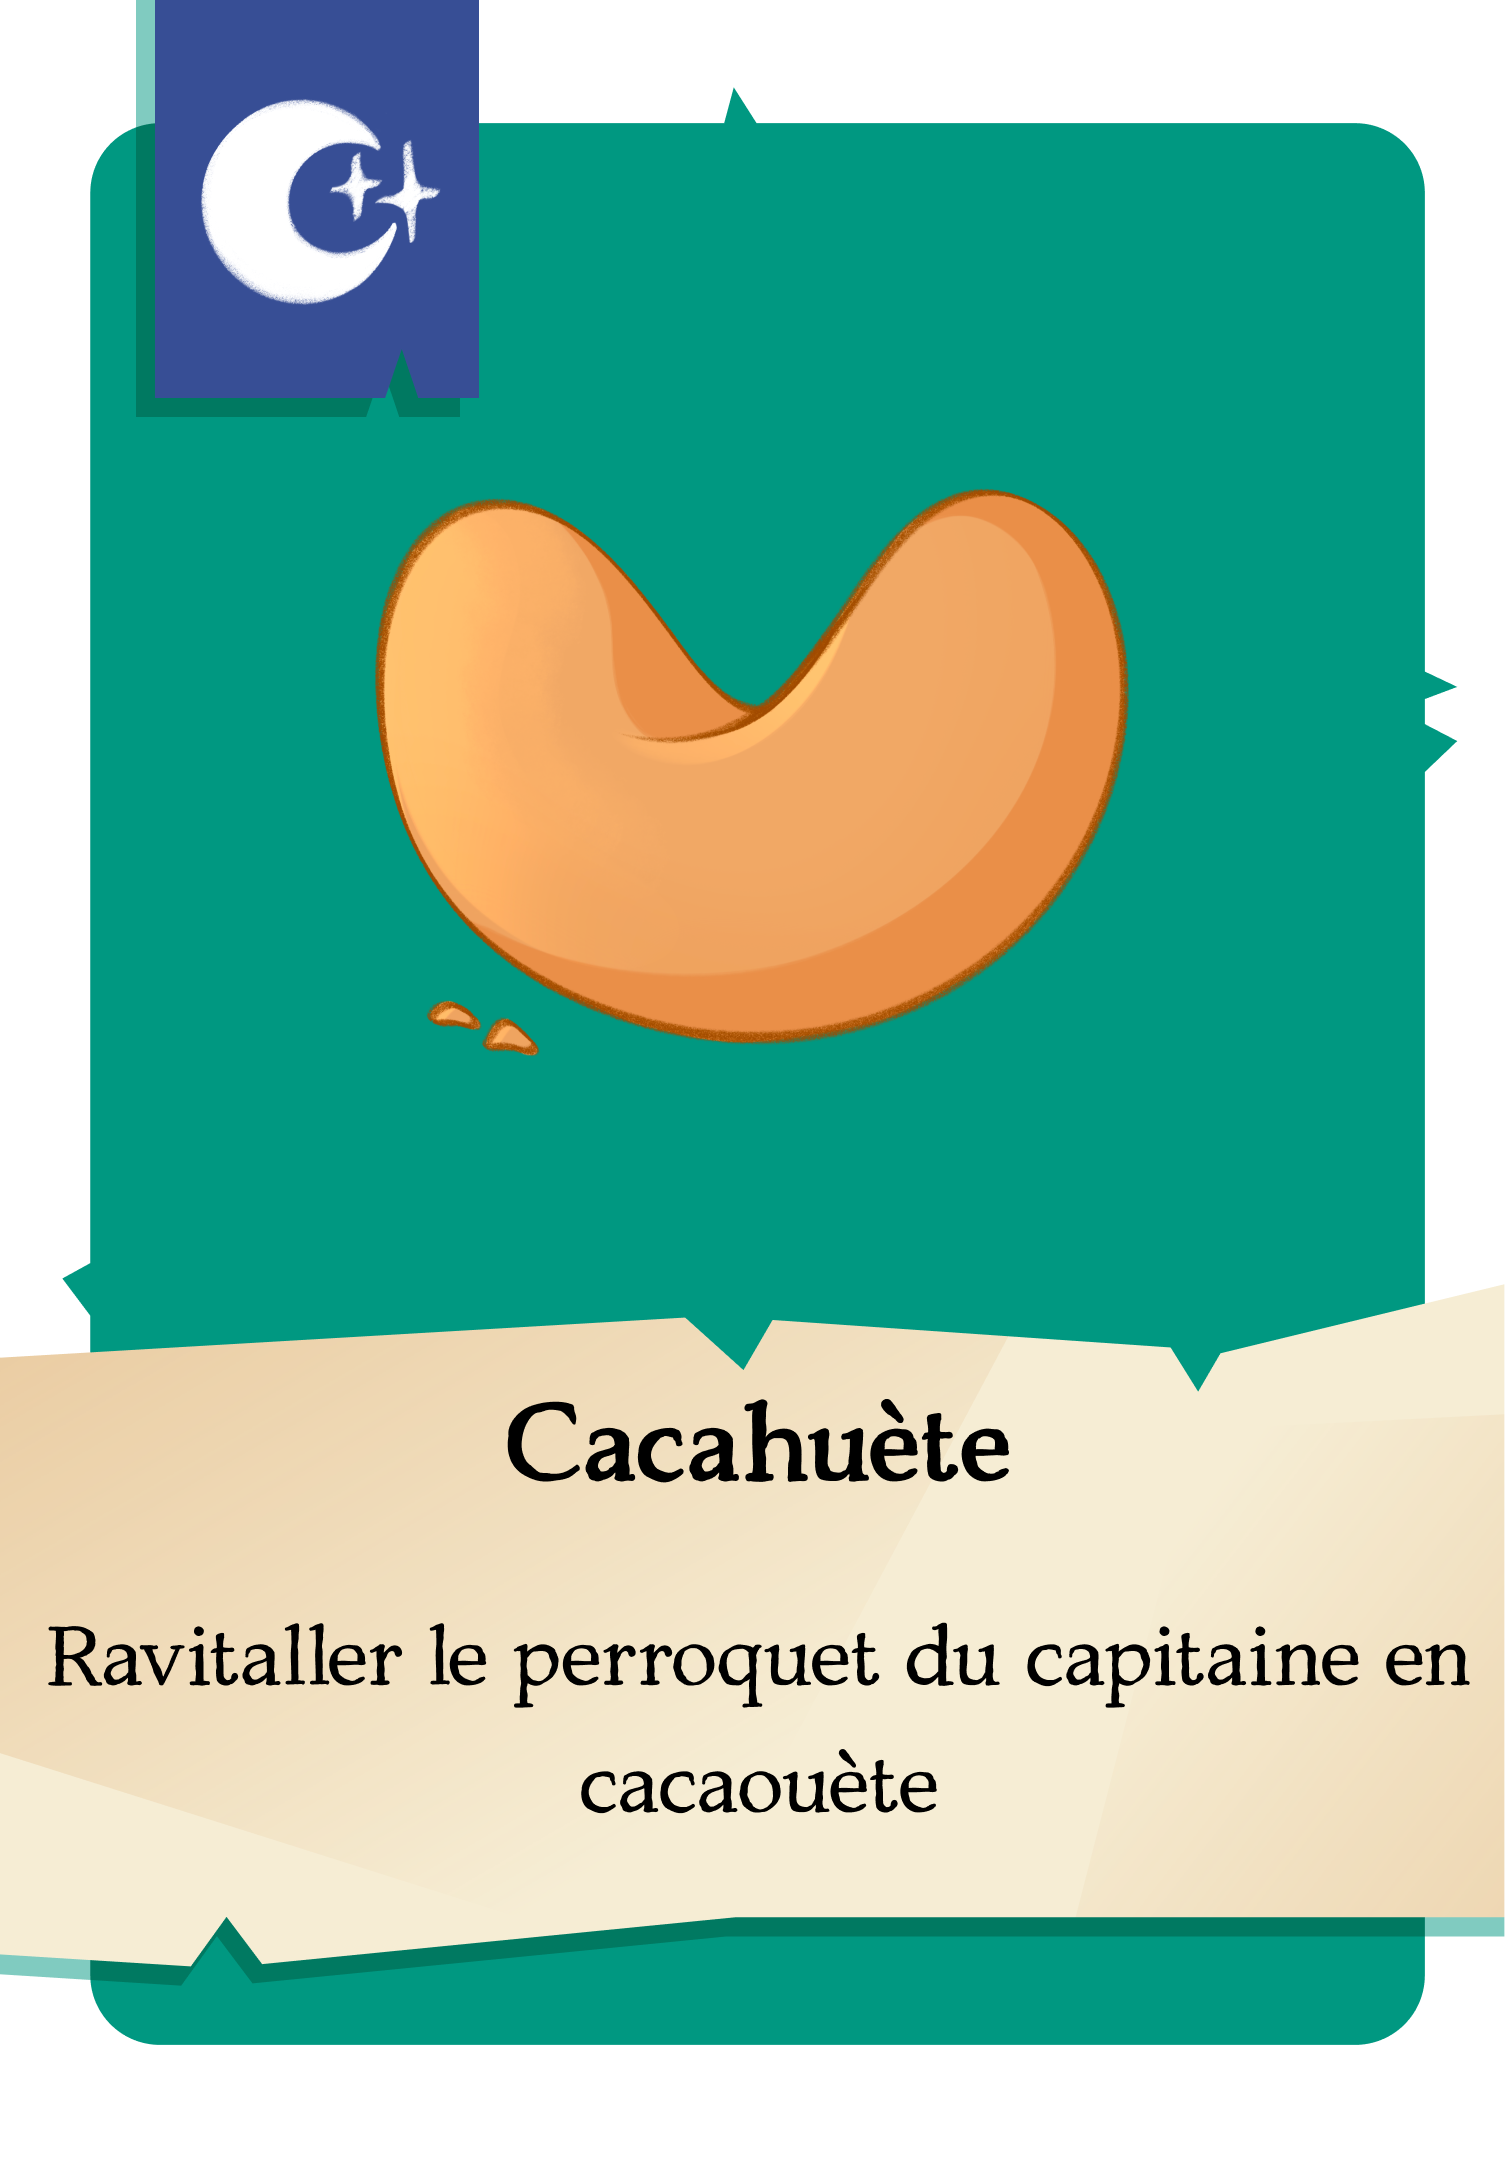
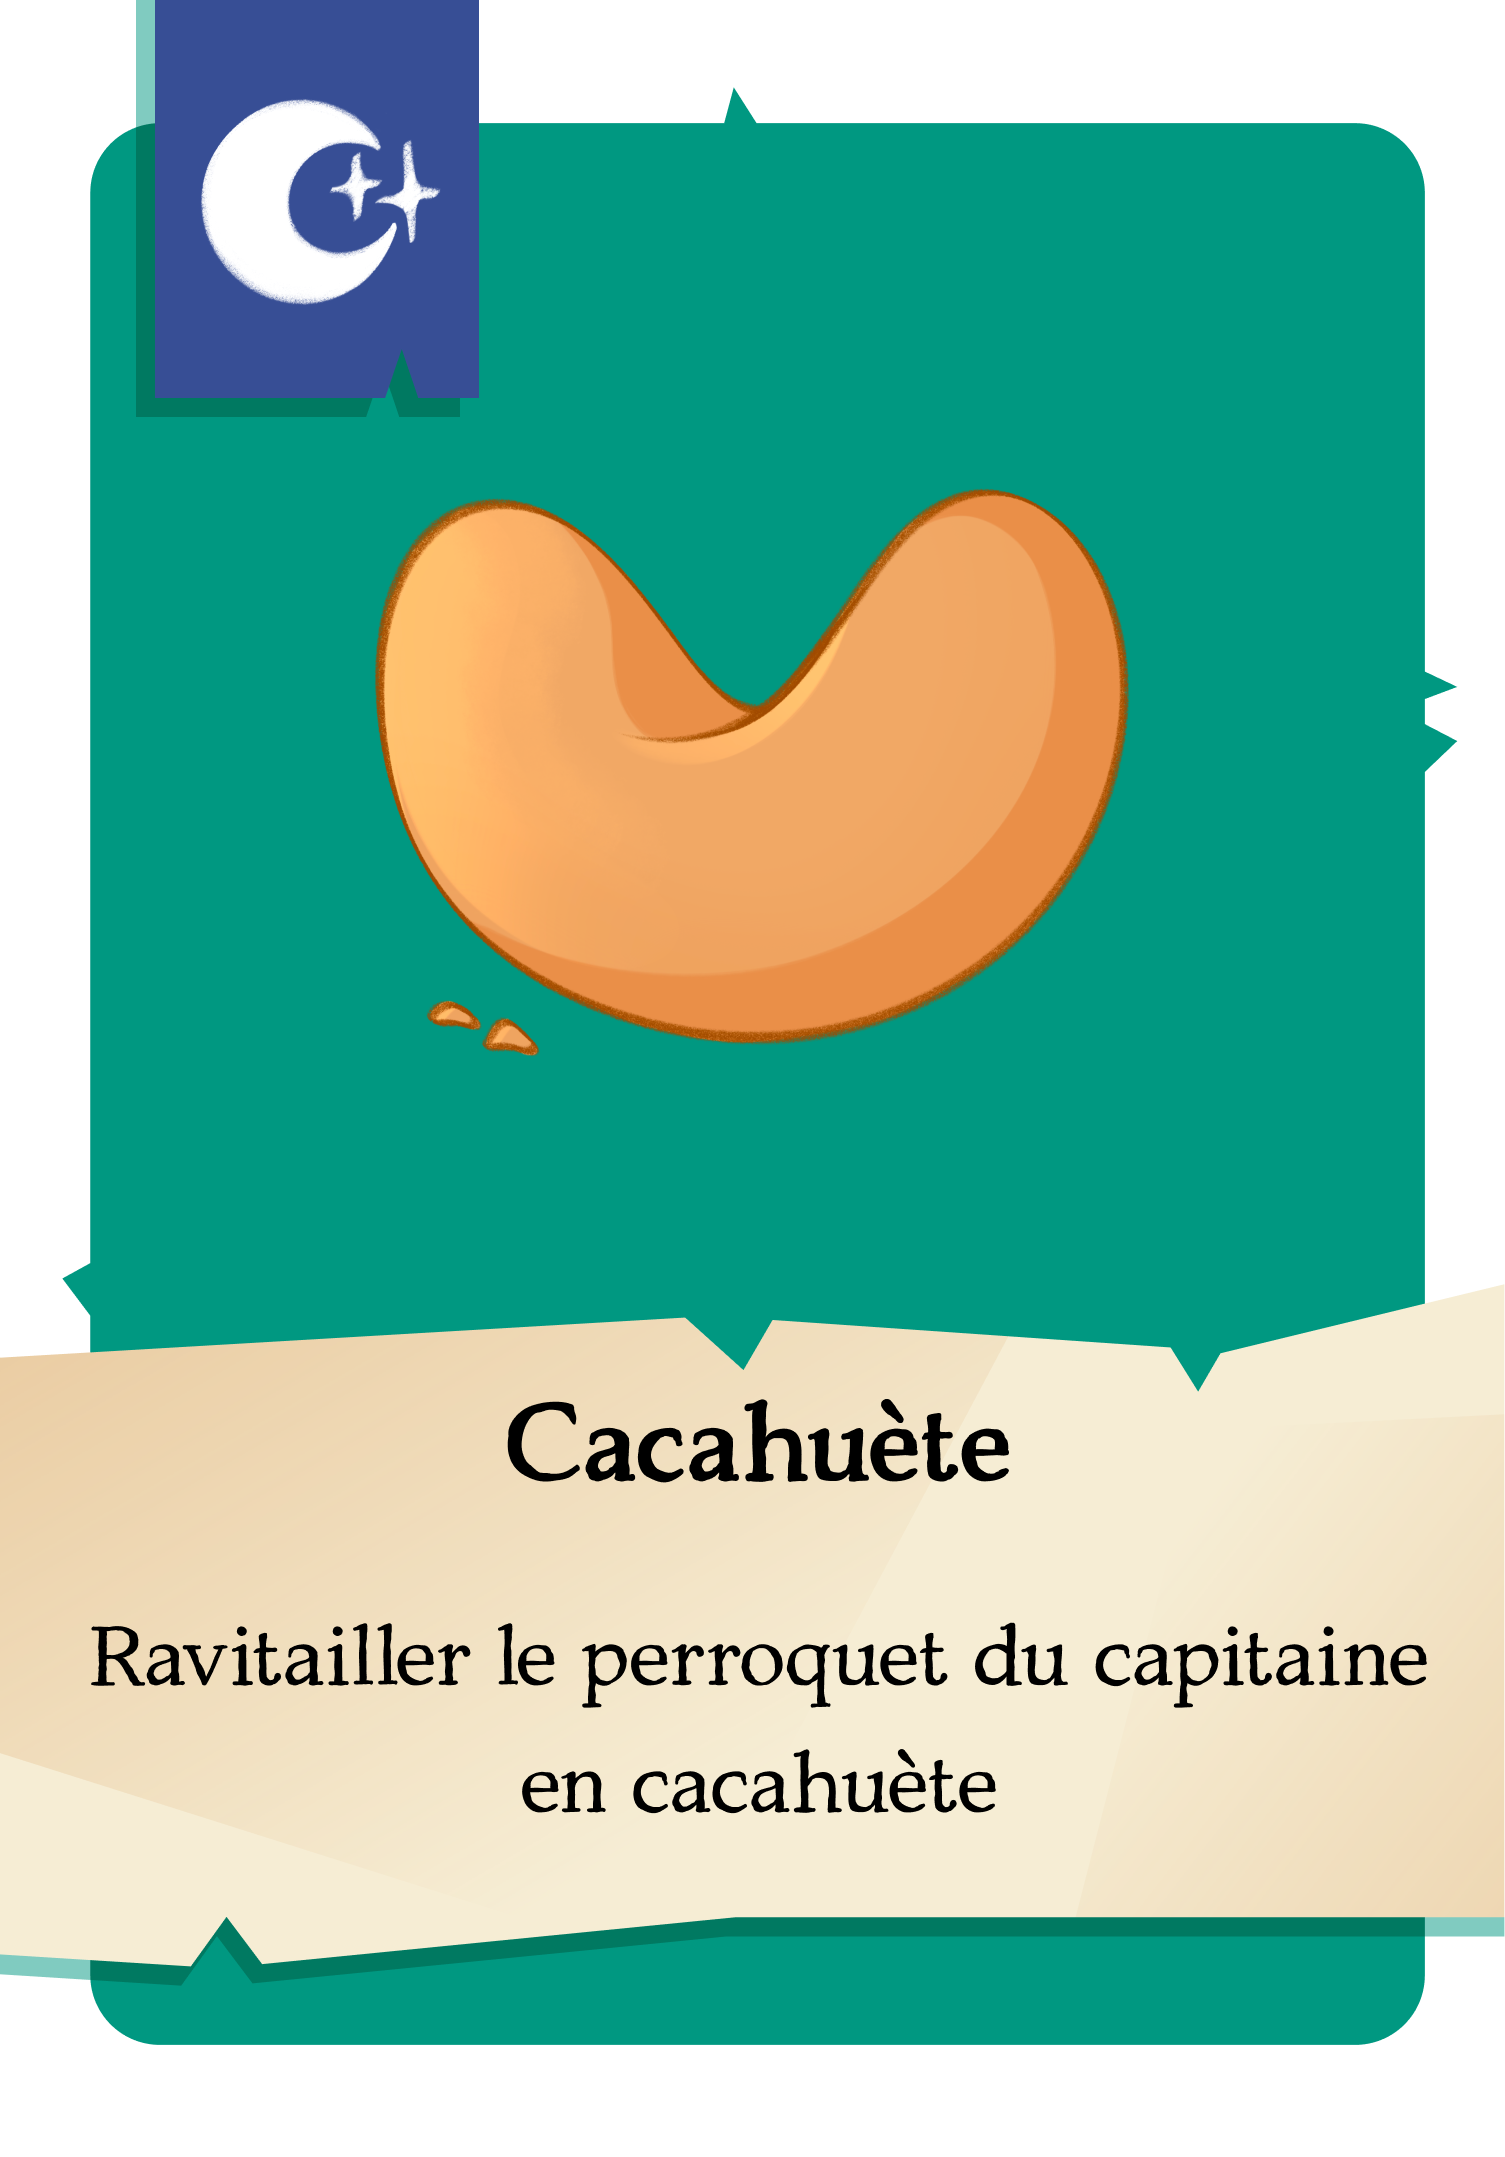
Refresh card assets and deck definitions

Changed region(s): [[0.0312, 0.7455, 0.9681, 0.8387]]

diff --git a/src/utils/treasureCards.ts b/src/utils/treasureCards.ts
@@ -38,6 +38,8 @@ export interface TreasureCardView {
   imageAlt?: string;
 }
 
+export const CAPTAIN_FINAL_SLOT_COUNT = 3;
+
 export const treasureCardDefinitions: Record<TreasureCardId, TreasureCardDefinition> = {
   'jeter-ancre': {
     id: 'jeter-ancre',
@@ -46,7 +48,7 @@ export const treasureCardDefinitions: Record<TreasureCardId, TreasureCardDefinit
     count: 2,
     effect: 'Reduit de 1 le lancer de de.',
     playable: true,
-    imageSrc: '/images/cards/jeter_l_ancre.png',
+    imageSrc: '/images/cards/jeterlancre.png',
   },
   'de-pipe': {
     id: 'de-pipe',
@@ -55,7 +57,7 @@ export const treasureCardDefinitions: Record<TreasureCardId, TreasureCardDefinit
     count: 1,
     effect: 'Relance le de du vent.',
     playable: true,
-    imageSrc: '/images/cards/de_pipe.png',
+    imageSrc: '/images/cards/depipe.png',
   },
   envollee: {
     id: 'envollee',
@@ -64,7 +66,7 @@ export const treasureCardDefinitions: Record<TreasureCardId, TreasureCardDefinit
     count: 2,
     effect: 'Augmente de 1 le lancer de de.',
     playable: true,
-    imageSrc: "/images/cards/l'envolee.png",
+    imageSrc: '/images/cards/lenvolee.png',
   },
   'bombe-artisanale': {
     id: 'bombe-artisanale',
@@ -73,7 +75,7 @@ export const treasureCardDefinitions: Record<TreasureCardId, TreasureCardDefinit
     count: 2,
     effect: 'Sacrifie 1 rhum pour eliminer definitivement un monstre ou un typhon.',
     playable: true,
-    imageSrc: '/images/cards/cartes.png',
+    imageSrc: '/images/cards/bombeartisanale.png',
   },
   'bateau-en-bouteille': {
     id: 'bateau-en-bouteille',
@@ -82,7 +84,7 @@ export const treasureCardDefinitions: Record<TreasureCardId, TreasureCardDefinit
     count: 1,
     effect: 'Equipe une protection qui absorbe le prochain monstre ou typhon.',
     playable: true,
-    imageSrc: '/images/cards/bateau_en_bouteille.png',
+    imageSrc: '/images/cards/bateauenbouteille.png',
   },
   'poudre-a-canon': {
     id: 'poudre-a-canon',
@@ -91,13 +93,13 @@ export const treasureCardDefinitions: Record<TreasureCardId, TreasureCardDefinit
     count: 1,
     effect: 'Equipe un tir qui eliminera le prochain monstre rencontre.',
     playable: true,
-    imageSrc: '/images/cards/poudre_a_canon.png',
+    imageSrc: '/images/cards/poudreacanon.png',
   },
   cacahuete: {
     id: 'cacahuete',
     title: 'Cacahuete',
     phase: 'evening',
-    count: 3,
+    count: 6,
     effect: 'Ajoute un jeton cacahuete a la reserve du Perroquet.',
     playable: true,
     imageSrc: '/images/cards/cacahuete.png',
@@ -109,7 +111,7 @@ export const treasureCardDefinitions: Record<TreasureCardId, TreasureCardDefinit
     count: 2,
     effect: "Remplace la ration de rhum du soir. L'Equipage ne boit pas de rhum ce tour.",
     playable: true,
-    imageSrc: '/images/cards/tequilaaaa.png',
+    imageSrc: '/images/cards/tequila.png',
   },
   capitaine: {
     id: 'capitaine',
@@ -118,9 +120,13 @@ export const treasureCardDefinitions: Record<TreasureCardId, TreasureCardDefinit
     count: 1,
     effect: 'Le Capitaine est retrouve. Vous gagnez la partie.',
     playable: false,
-    imageSrc: '/images/cards/capitain.png',
   },
 };
+
+export const TREASURE_DECK_TOTAL = Object.values(treasureCardDefinitions).reduce(
+  (total, definition) => total + definition.count,
+  0
+);
 
 export function getTreasureCardDefinition(cardId: TreasureCardId): TreasureCardDefinition {
   return treasureCardDefinitions[cardId];
@@ -177,8 +183,11 @@ export function createTreasureDeck(): TreasureCardInstance[] {
     instanceId: `capitaine-1-${Math.random().toString(36).slice(2, 8)}`,
     cardId: 'capitaine',
   };
-  const firstFinalSlot = Math.max(0, deck.length - 2);
-  const captainIndex = Math.min(deck.length, firstFinalSlot + Math.floor(Math.random() * 3));
+  const firstFinalSlot = Math.max(0, deck.length - (CAPTAIN_FINAL_SLOT_COUNT - 1));
+  const captainIndex = Math.min(
+    deck.length,
+    firstFinalSlot + Math.floor(Math.random() * CAPTAIN_FINAL_SLOT_COUNT)
+  );
 
   deck.splice(captainIndex, 0, captainCard);
 

diff --git a/src/types/ui.ts b/src/types/ui.ts
@@ -3,6 +3,7 @@ export type ButtonHandler = (() => void | Promise<void>) | undefined;
 export interface ChoiceCard {
   id?: string | number;
   title: string;
+  variant?: 'deck' | 'action';
   imageSrc?: string;
   imageAlt?: string;
   caption: string;
